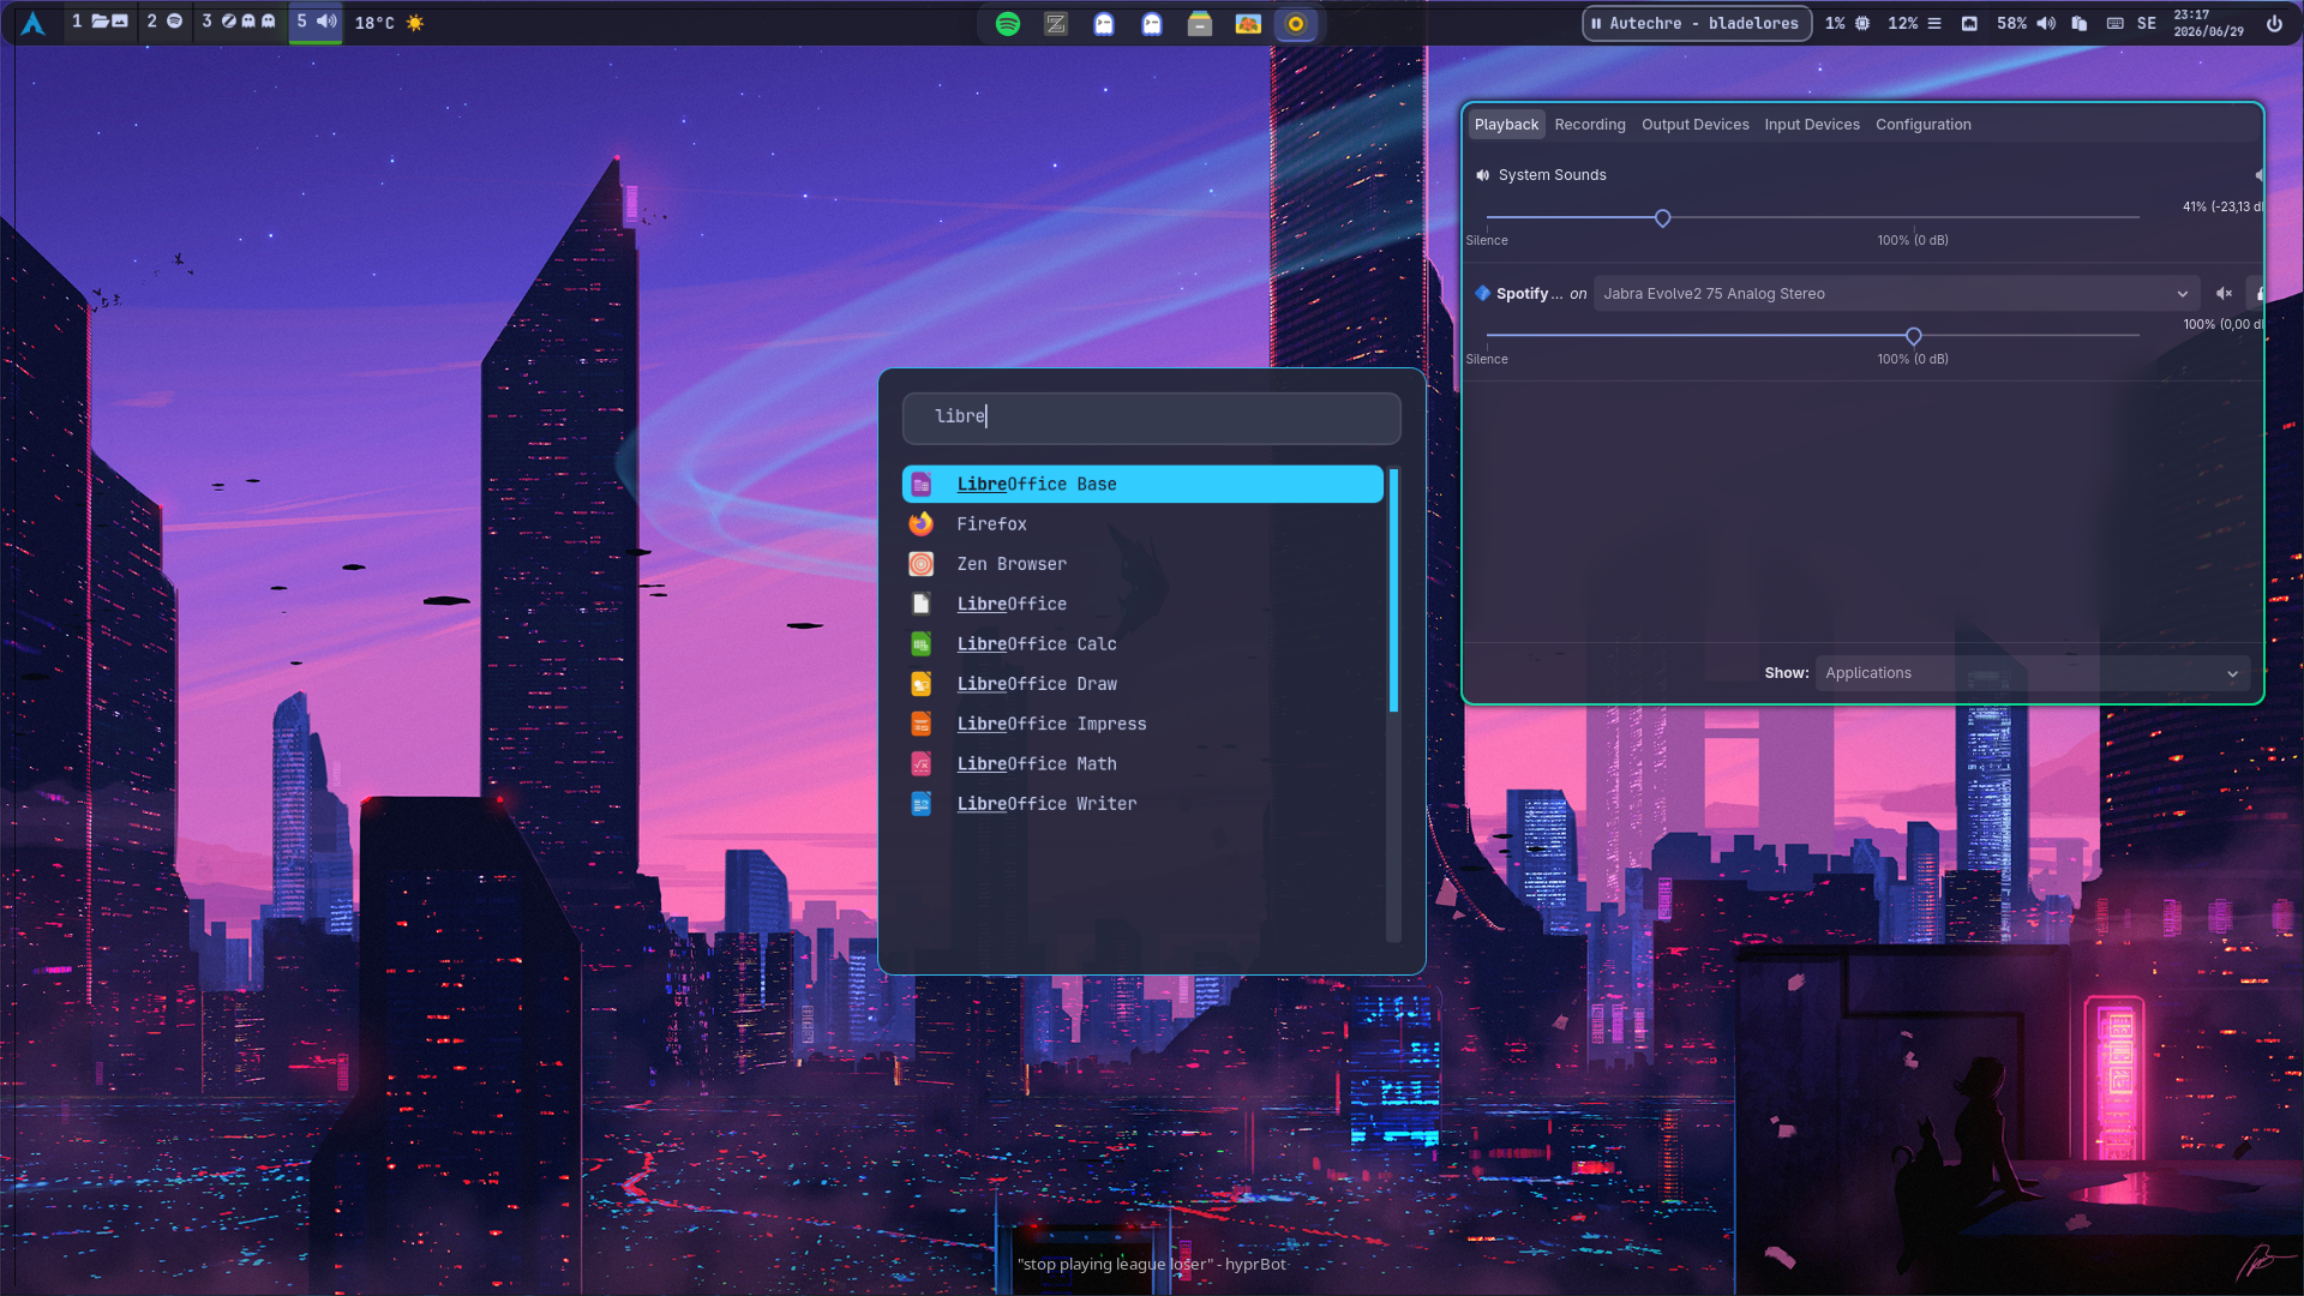
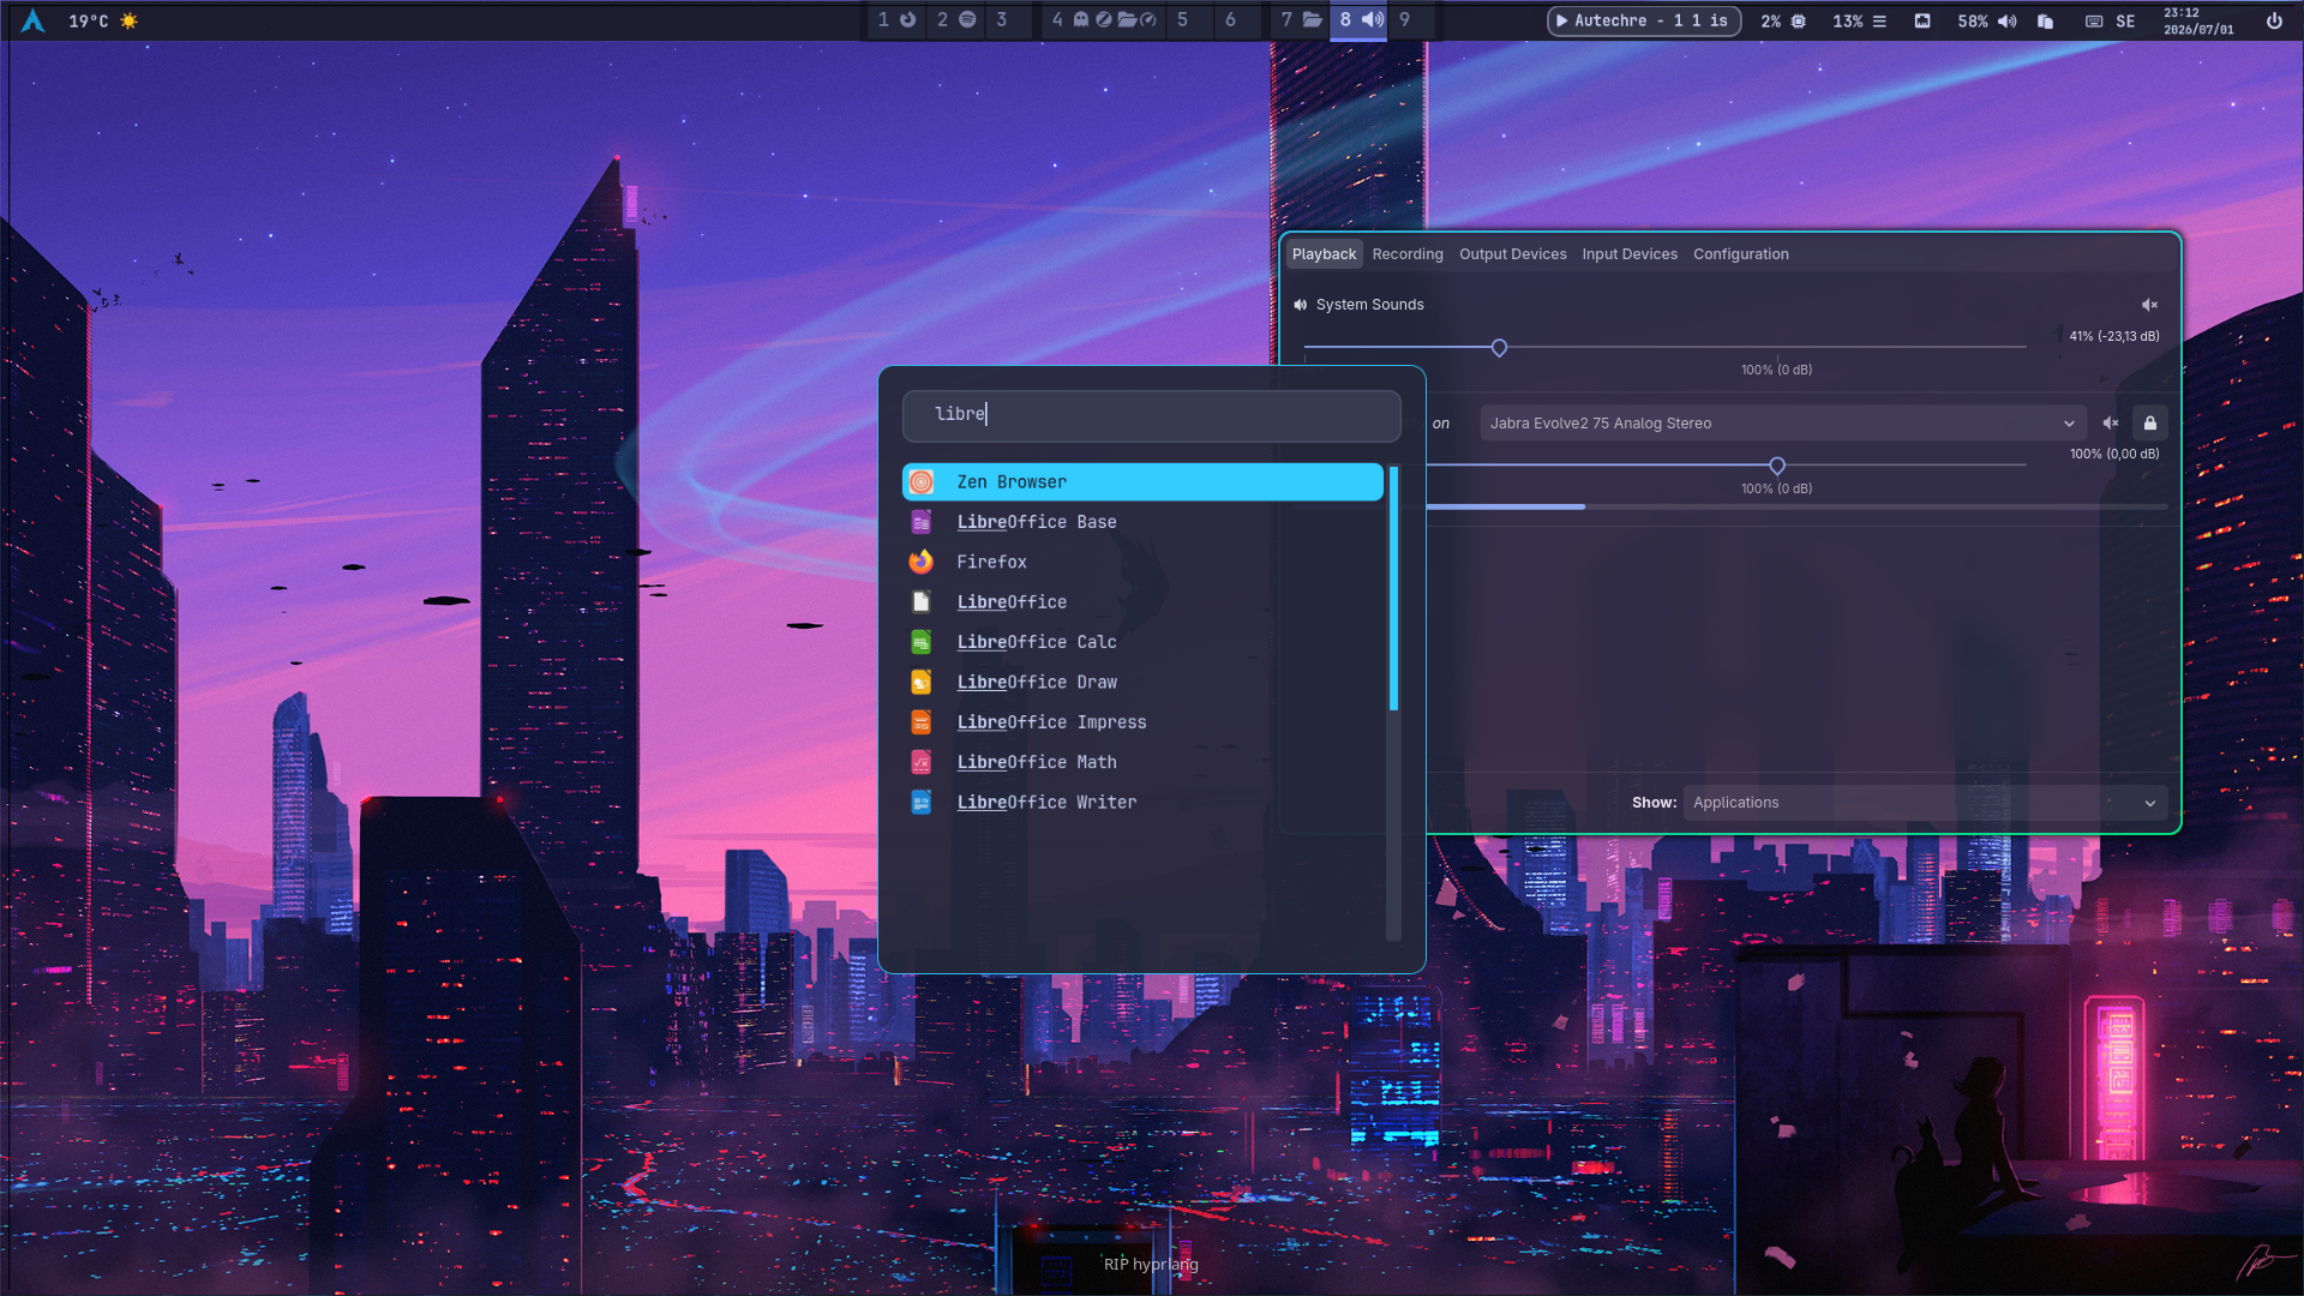
new design of waybar

diff --git a/waybar/.config/waybar/style.css b/waybar/.config/waybar/style.css
@@ -13,7 +13,7 @@ window#waybar {
     margin: 10px 30px;
     padding: 3px 6px;
     color: #cad3f5;
-    border-radius: 14px;
+    /*border-radius: 14px;*/
     border: 1px solid rgba(202, 211, 245, 0.08);
     box-shadow:
         0 8px 32px rgba(0, 0, 0, 0.5),
@@ -53,9 +53,9 @@ tooltip {
 /* ---------------------------------------- */
 #workspaces {
     background-color: rgba(17, 17, 27, 0.5);
-    border-radius: 12px;
-    padding: 4px 6px;
-    margin: 2px 2px;
+    border-radius: 0px;
+    padding: 0px 1px 0px 6px;
+    margin: 0px 2px;
     box-shadow: none;
     border: none;
 }
@@ -65,30 +65,31 @@ tooltip {
     color: #7b83a7;
     font-size: 19px;
     font-weight: 600;
-    padding: 4px 14px 4px 10px;
-    margin: 1px 1px 1px 1px;
-    border-radius: 0;
+    padding: 0px 14px 0px 10px;
+    margin: 0px 1px 0px 1px;
+    border-radius: 0px;
     transition: all 0.2s ease;
-    border-bottom: 2px solid rgba(0, 0, 0, 0.2);
+    border-bottom: 3px solid rgba(0, 0, 0, 0.2);
 }
 
 /* Group curvature */
 #workspaces button:nth-child(3n + 1) {
-    border-top-left-radius: 8px;
-    border-bottom-left-radius: 8px;
+    /*border-top-left-radius: 6px;
+    border-bottom-left-radius: 6px;*/
     margin-left: 2px;
 }
 
 #workspaces button:nth-child(3n) {
     margin-right: 8px;
-    border-top-right-radius: 8px;
-    border-bottom-right-radius: 8px;
+    /*border-top-right-radius: 6px;
+    border-bottom-right-radius: 6px;*/
 }
 
 /* Hover */
 #workspaces button:hover {
     background-color: rgba(60, 70, 100, 0.8);
     color: #cad3f5;
+    border-bottom: 3px solid rgba(136, 57, 239, 0.8);
 }
 
 /* ======================================== */
@@ -99,53 +100,66 @@ tooltip {
     color: #cad3f5;
     opacity: 1;
     background-color: rgba(114, 135, 253, 0.5);
-    border-bottom: 3px solid rgba(0, 0, 0, 0.3);
+    border-bottom: 4px solid rgba(0, 0, 0, 0.3);
+    /*background-color: rgba(114, 135, 253, 0.35);*/
 }
 
 /* --- Monitor 1 (WS 1-3) --- */
 #workspaces button.active:nth-child(1) {
-    background-color: rgba(254, 100, 11, 0.35);
-    border-bottom: 3px solid rgb(254, 100, 11);
+    /*background-color: rgba(254, 100, 11, 0.35);*/
+    border-bottom: 4px solid rgb(254, 100, 11);
+    box-shadow: rgba(254, 100, 11, 0.55);
 }
 #workspaces button.active:nth-child(2) {
-    background-color: rgba(220, 138, 120, 0.3);
-    border-bottom: 3px solid rgb(220, 138, 120);
+    /*background-color: rgba(220, 138, 120, 0.3);*/
+    border-bottom: 4px solid rgb(220, 138, 120);
+    box-shadow: rgba(220, 138, 120, 0.55);
 }
 #workspaces button.active:nth-child(3) {
     background-color: rgba(136, 57, 239, 0.35);
-    border-bottom: 3px solid rgb(136, 57, 239);
+    border-bottom: 4px solid rgb(136, 57, 239);
+    box-shadow: rgba(136, 57, 239, 0.55);
 }
 
 /* --- Monitor 2 (WS 4-6) --- */
 #workspaces button.active:nth-child(4) {
-    background-color: rgba(64, 160, 43, 0.35);
-    border-bottom: 2px solid rgb(64, 160, 43);
+    /*background-color: rgba(64, 160, 43, 0.35);*/
+    border-bottom: 4px solid rgb(64, 160, 43);
+    box-shadow: rgba(64, 160, 43, 0.55);
 }
 #workspaces button.active:nth-child(5) {
-    background-color: rgba(230, 69, 83, 0.3);
-    border-bottom: 2px solid rgb(230, 69, 83);
+    /*background-color: rgba(230, 69, 83, 0.3);*/
+    border-bottom: 4px solid rgb(230, 69, 83);
+    box-shadow: rgba(230, 69, 83, 0.55);
 }
 #workspaces button.active:nth-child(6) {
-    background-color: rgba(136, 57, 239, 0.35);
-    border-bottom: 2px solid rgb(136, 57, 239);
+    /*background-color: rgba(136, 57, 239, 0.35);*/
+    border-bottom: 4px solid rgb(136, 57, 239);
+    box-shadow: rgba(136, 57, 239, 0.55);
 }
 
 /* --- Monitor 3 (WS 7-9) --- */
 #workspaces button.active:nth-child(7) {
-    background-color: rgba(234, 118, 203, 0.3);
-    border-bottom: 2px solid rgb(234, 118, 203);
+    /*background-color: rgba(234, 118, 203, 0.3);*/
+    border-bottom: 4px solid rgb(234, 118, 203);
+    box-shadow: rgba(234, 118, 203, 0.55);
 }
 #workspaces button.active:nth-child(8) {
-    background-color: rgba(114, 135, 253, 0.45);
-    border-bottom: 2px solid rgb(114, 135, 253);
+    /*background-color: rgba(114, 135, 253, 0.45);*/
+    border-bottom: 4px solid rgb(114, 135, 253);
+    box-shadow: rgba(114, 135, 253, 0.55);
 }
 #workspaces button.active:nth-child(9) {
-    background-color: rgba(210, 15, 57, 0.35);
-    border-bottom: 2px solid rgb(210, 15, 57);
+    /*background-color: rgba(210, 15, 57, 0.35);*/
+    border-bottom: 4px solid rgb(210, 15, 57);
+    box-shadow: rgba(210, 15, 57, 0.55);
 }
+
+/* Magic workspace */
 #workspaces button.active:nth-child(n + 10) {
-    background-color: rgba(32, 159, 181, 0.3);
-    border-bottom: 2px solid rgb(32, 159, 181);
+    /*background-color: rgba(32, 159, 181, 0.3);*/
+    border-bottom: 4px solid rgb(32, 159, 181);
+    box-shadow: rgba(32, 159, 181, 0.55);
 }
 
 /* ---------------------------------------- */
@@ -170,7 +184,7 @@ tooltip {
     color: #cad3f5;
 }
 
-#custom-menu:hover,
+/*#custom-menu:hover,*/
 #custom-weather:hover,
 #cpu:hover,
 #memory:hover,
@@ -178,28 +192,27 @@ tooltip {
 #pulseaudio:hover,
 #custom-cliphist:hover,
 #language:hover,
-#clock:hover,
-#custom-power:hover {
+#clock:hover {
     background-color: rgba(114, 135, 253, 0.15);
     border-radius: 8px;
     border: 1px solid rgba(114, 135, 253, 0.25);
     box-shadow: 0 0 12px rgba(114, 135, 253, 0.12);
 }
 
-#custom-menu:hover,
+/*#custom-menu:hover,
 #custom-power:hover {
     background-color: rgba(114, 135, 253, 0.25);
     border: 1px solid rgba(114, 135, 253, 0.35);
     color: #ffffff;
-}
+}*/
 
 /* ---------------------------------------- */
 /* -----         LEFT MODULES         ----- */
 /* ---------------------------------------- */
 #custom-menu {
     color: #1793d1;
-    padding: 2px 23px 2px 15px;
-    margin: 2px 0px 2px 4px;
+    padding: 0px 23px 0px 15px;
+    margin: 1px 0px 1px 4px;
     transition: all 0.2s;
     font-size: 27px;
     border-top-left-radius: 15px;
@@ -216,8 +229,8 @@ tooltip {
 
 #custom-weather {
     font-size: 16px;
-    padding: 2px 10px 2px 5px;
-    margin: 5px 2px;
+    padding: 0px 10px 0px 5px;
+    margin: 4px 2px;
 }
 
 /* ---------------------------------------- */
@@ -333,25 +346,27 @@ tooltip {
 
 #language {
     font-size: 16px;
-    padding: 3px 10px;
+    padding: 0px 10px;
     margin: 4px 2px;
 }
 
 #clock {
     font-size: 12px;
-    padding: 3px 10px;
-    margin: 4px 2px;
+    padding: 0px 10px;
+    margin: 2px 2px;
 }
 
 #custom-power {
     min-width: 20px;
-    padding: 3px 10px;
+    padding: 0px 10px;
     font-size: 18px;
-    margin: 4px 10px 4px 3px;
-    border-radius: 50px;
+    margin: 2px 10px 2px 3px;
+    /*border-radius: 50px;*/
+    font-weight: bold;
 }
 
 #custom-power:hover {
-    color: #ed8796;
-    border-radius: 50px;
+    color: red;
+    font-weight: bold;
+    /*border-radius: 50px;*/
 }